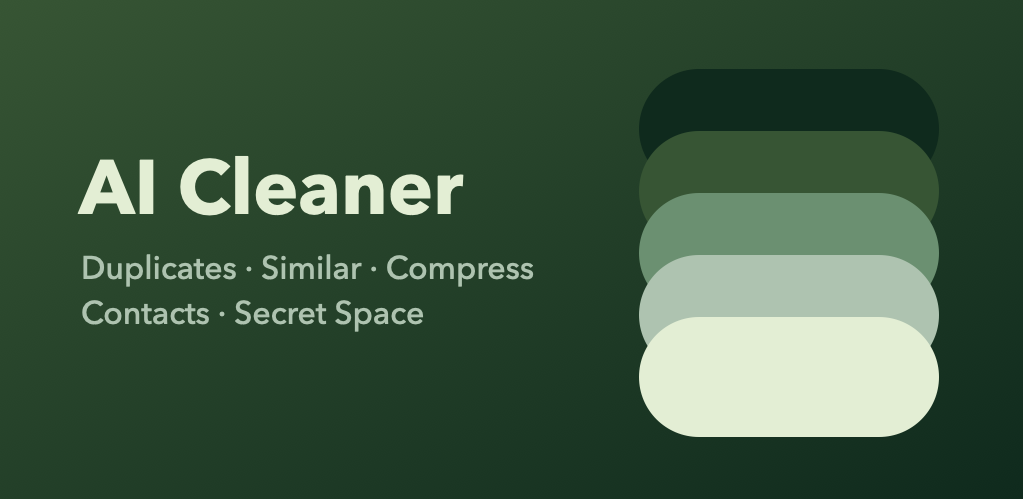
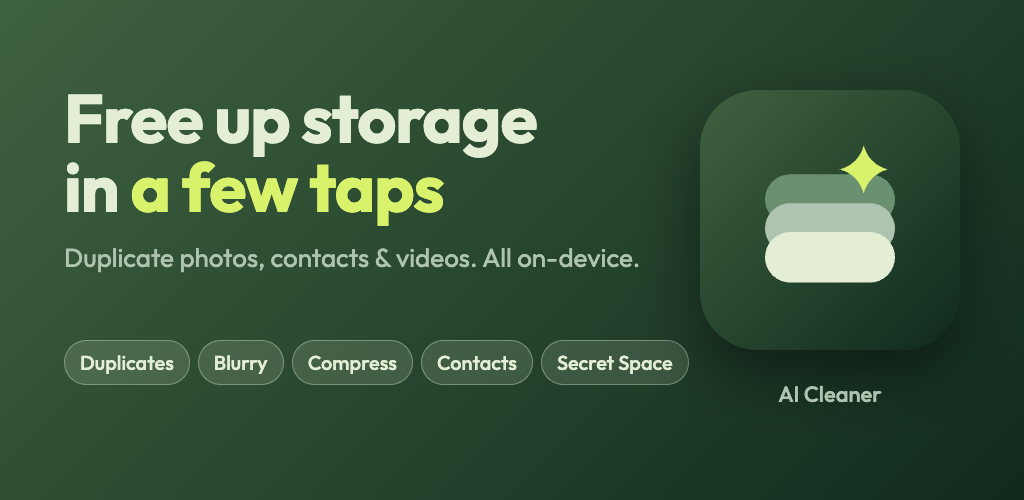
aso

Changed region(s): [[0.0625, 0.12, 0.9375, 0.9], [0.0625, 0.18, 0.5312, 0.45], [0.0, 0.99, 1.0, 1.0]]

diff --git a/store/sample-data/scene.html b/store/sample-data/scene.html
@@ -1,0 +1,56 @@
+<!doctype html><html><body style="margin:0;background:#000"><canvas id="c"></canvas><script>
+const q=new URLSearchParams(location.search);
+const seed=+q.get('seed')||1, W=+q.get('w')||1800, H=+q.get('h')||1350;
+const pan=+q.get('pan')||0, bright=+(q.get('bright')||1), blur=+q.get('blur')||0, noiseSeed=+q.get('ns')||seed;
+function rng(a){return function(){a|=0;a=a+0x6D2B79F5|0;let t=Math.imul(a^a>>>15,1|a);t=t+Math.imul(t^t>>>7,61|t)^t;return((t^t>>>14)>>>0)/4294967296}}
+const R=rng(seed*7919);
+const P=[
+ {t:['#1b2a5c','#f08a4b'],sun:'#ffd9a0',r:['#6b4a7a','#4a3566','#2e2250','#171236'],type:'mount'},
+ {t:['#7ec8f2','#e8f6ff'],sun:'#fff7d6',r:['#9bc4d9','#6aa3b8','#3f7f6b','#245c46'],type:'mount'},
+ {t:['#0b1026','#2b3a67'],sun:'#f4f1de',r:['#1c2540','#141b33','#0c1124','#070a17'],type:'night',stars:1},
+ {t:['#ffb36b','#ffe3b0'],sun:'#fff3c4',r:['#d98c5f','#b5654a','#8a4a3b','#5a2f2c'],type:'dunes'},
+ {t:['#4fb3d9','#bfe9f5'],sun:'#fffbe6',r:['#f3d9a4','#2d8fb5','#1f6f96','#165676'],type:'beach'},
+ {t:['#2c3e50','#8fa9b8'],sun:'#e6eef2',r:['#5d7482','#415664','#2b3b47','#1a252d'],type:'forest'},
+ {t:['#f6a6b8','#ffe2c4'],sun:'#fff0e0',r:['#c77f9a','#9c5a82','#6d3a69','#3f2250'],type:'mount'},
+ {t:['#0d1b2a','#1b4d5c'],sun:'#b8ffd9',r:['#14363f','#0e2830','#091c23','#05121a'],type:'aurora',stars:1},
+ {t:['#9ad0ec','#f2fbff'],sun:'#ffffff',r:['#ffffff','#dbeaf2','#b6cfdc','#7f9fb3'],type:'snow'},
+ {t:['#e8b04a','#f7e3a8'],sun:'#fffbe0',r:['#9a7b2f','#7a6a2c','#4f5d2b','#2f4023'],type:'field'},
+ {t:['#101820','#3a2a50'],sun:'#ff6fae',r:['#251a3a','#1a122d','#110b20','#0a0614'],type:'city',stars:1},
+ {t:['#bcd8c1','#eaf3dc'],sun:'#fffff0',r:['#8fb996','#5f9a76','#3f7a5c','#255a44'],type:'forest'},
+];
+const pal=P[seed%P.length];
+const c=document.getElementById('c');c.width=W;c.height=H;const g=c.getContext('2d');
+const ox=pan*W;
+function ridge(base,amp,col,freq,sh){
+ const ph=[R()*6,R()*6,R()*6,R()*6];
+ g.beginPath();g.moveTo(-50,H+10);
+ for(let x=-50;x<=W+50;x+=6){const u=(x+ox*sh)/W*freq;
+  const y=base+amp*(Math.sin(u*2+ph[0])*.5+Math.sin(u*5.3+ph[1])*.28+Math.sin(u*11.7+ph[2])*.14+Math.sin(u*27+ph[3])*.06);
+  g.lineTo(x,y);}
+ g.lineTo(W+50,H+10);g.closePath();
+ const gr=g.createLinearGradient(0,base-amp,0,H);gr.addColorStop(0,col);gr.addColorStop(1,shade(col,-.35));g.fillStyle=gr;g.fill();}
+function shade(h,f){let n=parseInt(h.slice(1),16),r=n>>16,gg=n>>8&255,b=n&255;const k=f<0?0:255,p=Math.abs(f);return'rgb('+Math.round((k-r)*p+r)+','+Math.round((k-gg)*p+gg)+','+Math.round((k-b)*p+b)+')'}
+// sky
+let gr=g.createLinearGradient(0,0,0,H*.7);gr.addColorStop(0,pal.t[0]);gr.addColorStop(1,pal.t[1]);g.fillStyle=gr;g.fillRect(0,0,W,H);
+if(pal.stars){g.fillStyle='#fff';const rs=rng(seed);for(let i=0;i<260;i++){g.globalAlpha=.3+rs()*.7;g.beginPath();g.arc(rs()*W-ox*.02,rs()*H*.55,rs()*2.2+.4,0,7);g.fill();}g.globalAlpha=1;}
+const sx=W*(.25+R()*.5)-ox*.1, sy=H*(.28+R()*.18), sr=H*(.05+R()*.04);
+let rg=g.createRadialGradient(sx,sy,0,sx,sy,sr*7);rg.addColorStop(0,pal.sun+'cc');rg.addColorStop(.25,pal.sun+'55');rg.addColorStop(1,pal.sun+'00');g.fillStyle=rg;g.fillRect(0,0,W,H);
+g.fillStyle=pal.sun;g.beginPath();g.arc(sx,sy,sr,0,7);g.fill();
+if(pal.type==='aurora'){g.filter='blur(30px)';for(let i=0;i<4;i++){const gg=g.createLinearGradient(0,H*.1,0,H*.5);gg.addColorStop(0,'rgba(120,255,200,0)');gg.addColorStop(.5,'rgba(120,255,200,.55)');gg.addColorStop(1,'rgba(90,120,255,0)');g.fillStyle=gg;g.beginPath();g.moveTo(0,H*.35);for(let x=0;x<=W;x+=20)g.lineTo(x,H*(.25+i*.04)+Math.sin(x/W*6+i*1.7-ox/W)*H*.07);g.lineTo(W,H*.55);g.lineTo(0,H*.55);g.fill();}g.filter='none';}
+// clouds
+g.filter='blur(26px)';g.fillStyle='rgba(255,255,255,.28)';for(let i=0;i<7;i++){g.beginPath();g.ellipse(R()*W-ox*.15,H*(.1+R()*.3),W*(.07+R()*.12),H*(.02+R()*.03),0,0,7);g.fill();}g.filter='none';
+const base=H*(.58+R()*.06);
+const layers=pal.r;
+layers.forEach((col,i)=>{const t=i/(layers.length-1);ridge(base+t*H*.17,H*(.14-t*.05),col,1.4+i*.5,.6+i*.5)});
+if(pal.type==='city'){let x=-ox*.3;const rs=rng(seed+5);while(x<W){const w=40+rs()*90,h=H*(.1+rs()*.28);g.fillStyle='#0a0612';g.fillRect(x,H*.8-h,w,h+H*.2);g.fillStyle='rgba(255,210,120,.85)';for(let yy=H*.8-h+14;yy<H*.8;yy+=26)for(let xx=x+8;xx<x+w-10;xx+=18)if(rs()>.55)g.fillRect(xx,yy,8,12);x+=w+rs()*10;}}
+if(pal.type==='forest'||pal.type==='mount'){const rs=rng(seed+9);for(let i=0;i<46;i++){const x=rs()*W*1.1-ox*.9,h=H*(.1+rs()*.2),y=H*(.82+rs()*.18);g.fillStyle=shade('#10241a',-rs()*.3);g.beginPath();g.moveTo(x,y-h);g.lineTo(x+h*.28,y);g.lineTo(x-h*.28,y);g.fill();}}
+if(pal.type==='field'){const rs=rng(seed+3);for(let i=0;i<700;i++){g.fillStyle=['#ffffff','#f4d03f','#e74c8c'][i%3];g.beginPath();g.arc(rs()*W,H*(.72+rs()*.28),2+rs()*5,0,7);g.fill();}}
+if(pal.type==='beach'){g.fillStyle='rgba(255,255,255,.55)';for(let i=0;i<14;i++){g.fillRect(R()*W-ox*.5,H*(.66+R()*.1),W*(.1+R()*.2),3);}}
+// vignette
+let vg=g.createRadialGradient(W/2,H/2,H*.4,W/2,H/2,H*.95);vg.addColorStop(0,'rgba(0,0,0,0)');vg.addColorStop(1,'rgba(0,0,0,.35)');g.fillStyle=vg;g.fillRect(0,0,W,H);
+// brightness + grain
+const im=g.getImageData(0,0,W,H),d=im.data,rn=rng(noiseSeed*131+7);
+for(let i=0;i<d.length;i+=4){const n=(rn()-.5)*16;d[i]=Math.max(0,Math.min(255,d[i]*bright+n));d[i+1]=Math.max(0,Math.min(255,d[i+1]*bright+n));d[i+2]=Math.max(0,Math.min(255,d[i+2]*bright+n));}
+g.putImageData(im,0,0);
+if(blur>0){const t=document.createElement('canvas');t.width=W;t.height=H;const tg=t.getContext('2d');tg.filter='blur('+blur+'px)';tg.drawImage(c,0,0);g.filter='none';g.drawImage(t,0,0);}
+</script></body></html>

diff --git a/store/sample-data/shot.html b/store/sample-data/shot.html
@@ -1,0 +1,23 @@
+<!doctype html><html><head><meta charset="utf-8"><style>
+*{box-sizing:border-box;margin:0;font-family:-apple-system,Helvetica,Arial,sans-serif}
+body{width:1080px;height:2400px;background:var(--bg);color:var(--fg);overflow:hidden}
+.sb{height:90px;display:flex;justify-content:space-between;padding:30px 48px;font-size:34px}
+.hd{padding:40px 48px;font-size:64px;font-weight:700;background:var(--ac);color:#fff}
+.row{display:flex;align-items:center;gap:36px;padding:34px 48px;border-bottom:2px solid rgba(128,128,128,.18)}
+.av{width:120px;height:120px;border-radius:60px;background:var(--ac);opacity:.85;flex:none}
+.t1{font-size:44px;font-weight:600}.t2{font-size:36px;opacity:.6;margin-top:8px}
+.card{margin:36px 48px;border-radius:36px;background:rgba(128,128,128,.14);padding:48px;height:420px;font-size:48px;font-weight:600}
+.bar{height:34px;border-radius:17px;background:var(--ac);opacity:.7;margin-top:26px}
+.nav{position:absolute;bottom:0;left:0;right:0;height:200px;background:rgba(128,128,128,.16);display:flex;justify-content:space-around;align-items:center}
+.nav i{width:90px;height:90px;border-radius:30px;background:var(--ac);opacity:.7}
+</style></head><body><div class="sb"><span>18:15</span><span>● ▲ ▮</span></div><div class="hd" id="h"></div><div id="b"></div><div class="nav"><i></i><i></i><i></i><i></i></div>
+<script>
+const q=new URLSearchParams(location.search),k=+q.get('k')||0;
+const T=[['Messages','#128c7e','#ffffff','#111'],['Settings','#3b6ef5','#f5f6fa','#111'],['Shop','#e8590c','#ffffff','#111'],['Maps','#2b8a3e','#e9ecef','#111'],['Notes','#f59f00','#1e1e1e','#eee'],['Weather','#1c7ed6','#0b2239','#eee'],['Music','#c2255c','#16111a','#eee'],['Wallet','#5f3dc4','#ffffff','#111']];
+const [n,ac,bg,fg]=T[k%8];const r=document.documentElement.style;r.setProperty('--ac',ac);r.setProperty('--bg',bg);r.setProperty('--fg',fg);
+document.getElementById('h').textContent=n;
+const names=['Anna Lee','Marco R.','Team Sync','Mom','Sam K.','Dev Group','Priya','Jordan','Luca','Sofia','Kenji','Olivia'];
+let h='';if(k%2==0){for(let i=0;i<9;i++)h+=`<div class="row"><div class="av" style="opacity:${.5+((i*k)%5)/10}"></div><div><div class="t1">${names[(i+k)%12]}</div><div class="t2">See you at ${3+i}:${i}0 · ${i+1}m ago</div></div></div>`}
+else{h+=`<div class="card">${n} overview<div class="bar" style="width:80%"></div><div class="bar" style="width:55%"></div><div class="bar" style="width:68%"></div></div>`;for(let i=0;i<6;i++)h+=`<div class="row"><div class="av" style="border-radius:24px"></div><div><div class="t1">${names[(i*2+k)%12]}</div><div class="t2">Item ${i+k} · $${(i+3)*k+9}.00</div></div></div>`}
+document.getElementById('b').innerHTML=h;
+</script></body></html>

diff --git a/store/screenshots/template.html b/store/screenshots/template.html
@@ -1,0 +1,25 @@
+<!doctype html><html><head><meta charset="utf-8"><style>
+@font-face{font-family:Outfit;src:url("../../assets/fonts/Outfit.ttf");font-weight:100 900}
+*{box-sizing:border-box;margin:0}
+body{width:1080px;height:2160px;overflow:hidden;font-family:Outfit,sans-serif;position:relative;background:linear-gradient(160deg,#3F6240 0%,#173424 55%,#0F2A1D 100%);color:#E3EED4}
+.glow{position:absolute;left:-200px;top:520px;width:800px;height:800px;border-radius:50%;background:radial-gradient(circle,rgba(217,242,107,.22),rgba(217,242,107,0) 65%)}
+h1{position:absolute;left:0;right:0;top:92px;text-align:center;font-size:96px;line-height:1.04;font-weight:700;letter-spacing:-2px}
+h1 em{font-style:normal;color:#D9F26B}
+.sub{position:absolute;left:0;right:0;top:332px;text-align:center;font-size:40px;font-weight:500;color:#AEC3B0}
+.phone{position:absolute;left:140px;top:420px;width:800px;height:1740px;border-radius:84px 84px 0 0;background:#08140d;padding:14px 14px 0;box-shadow:0 40px 120px rgba(0,0,0,.55),0 0 0 3px rgba(227,238,212,.12)}
+.phone img{display:block;width:772px;height:1726px;object-fit:cover;object-position:top;border-radius:72px 72px 0 0}
+</style></head><body><div class="glow"></div><h1 id="h"></h1><div class="sub" id="s"></div><div class="phone"><img id="i"></div>
+<script>
+const D=[
+ ["Reclaim space<br><em>in one tap</em>","","01_home"],
+ ["Delete <em>duplicate</em><br>photos","","02_dups"],
+ ["Keep the <em>best</em>,<br>clear the rest","","03_similar"],
+ ["Clear <em>blurry</em><br>photos","","04_blurry"],
+ ["<em>Compress</em> photos<br>&amp; videos","","05_compress"],
+ ["Merge <em>duplicate</em><br>contacts","","06_contacts"],
+ ["Clean old<br><em>calendar events</em>","","07_events"],
+ ["<em>Lock</em> private photos<br>&amp; contacts","100% on-device · No account","08_secret"]];
+const n=(+new URLSearchParams(location.search).get('n')||1)-1,d=D[n];
+document.getElementById('h').innerHTML=d[0];document.getElementById('s').textContent=d[1];
+document.getElementById('i').src="raw/"+d[2]+".png";
+</script></body></html>

diff --git a/store/feature.html b/store/feature.html
@@ -1,0 +1,17 @@
+<!doctype html><html><head><meta charset="utf-8"><style>
+@font-face{font-family:Outfit;src:url("../assets/fonts/Outfit.ttf");font-weight:100 900}
+*{box-sizing:border-box;margin:0}
+body{width:1024px;height:500px;overflow:hidden;font-family:Outfit,sans-serif;background:linear-gradient(135deg,#3F6240,#0F2A1D);position:relative;color:#E3EED4}
+.t{position:absolute;left:64px;top:84px;width:620px}
+h1{font-size:68px;line-height:1.02;font-weight:700;letter-spacing:-1px}
+h1 em{font-style:normal;color:#D9F26B}
+p{margin-top:18px;font-size:26px;white-space:nowrap;color:#AEC3B0;font-weight:400}
+.chips{position:absolute;left:64px;top:340px;display:flex;gap:8px;flex-wrap:wrap;width:640px}
+.c{padding:9px 15px;border-radius:99px;background:rgba(227,238,212,.14);border:1.5px solid rgba(227,238,212,.35);font-size:20px;font-weight:500}
+.ic{position:absolute;left:700px;top:90px;width:260px;height:260px;border-radius:58px;box-shadow:0 24px 60px rgba(0,0,0,.45)}
+.ic2{position:absolute;left:690px;top:380px;width:280px;text-align:center;font-size:22px;color:#AEC3B0;font-weight:500}
+</style></head><body>
+<div class="t"><h1>Free up storage<br>in <em>a few taps</em></h1><p>Duplicate photos, contacts &amp; videos. All on-device.</p></div>
+<div class="chips"><span class="c">Duplicates</span><span class="c">Blurry</span><span class="c">Compress</span><span class="c">Contacts</span><span class="c">Secret Space</span></div>
+<img class="ic" src="icon.svg"><div class="ic2">AI Cleaner</div>
+</body></html>

diff --git a/lib/core/config.dart b/lib/core/config.dart
@@ -4,11 +4,11 @@ abstract final class AppConfig {
   static const storeUrl =
       'https://play.google.com/store/apps/details?id=$packageName';
 
-  static const repoUrl = 'https://github.com/ldtrng/ai_cleaner_storage_cleaner';
+  static const repoUrl = 'https://ldtrng.github.io/ai_cleaner_storage_cleaner';
 
   // Rendered by GitHub from docs/ in this repo; also used as the Play Console privacy policy URL.
-  static const privacyPolicyUrl = '$repoUrl/blob/main/docs/privacy-policy.md';
-  static const termsUrl = '$repoUrl/blob/main/docs/terms.md';
+  static const privacyPolicyUrl = '$repoUrl/privacy-policy.html';
+  static const termsUrl = '$repoUrl/terms.html';
 
   static const supportEmail = 'ldtrong258@gmail.com';
 }

diff --git a/store/ASO.md b/store/ASO.md
@@ -1,0 +1,169 @@
+# ASO — AI Cleaner (Google Play)
+
+Ngày: 2026-10-10 · App chưa lên store (pre-launch) · Tier: **Challenger** · Store: Google Play (chỉ Android)
+
+> Giới hạn: không có dữ liệu search volume / thứ hạng thật (cần AppTweak, Sensor Tower, Play Console). Keyword bên dưới suy ra từ listing đối thủ đang xếp hạng cao, không phải từ volume đo được. Sau khi lên store, kiểm lại bằng Play Console → Store performance → Search terms.
+
+## 1. Đánh giá bản nháp hiện tại (PLAY_STORE.md §4 + assets cũ)
+
+| Hạng mục | Điểm | Vấn đề chính |
+|---|---|---|
+| Title & short desc | 6/10 | Title ổn (28 ký tự) nhưng short desc lặp "free up space", thiếu "storage cleaner" / "phone cleaner" |
+| Description | 6/10 | Chỉ ~1.300 ký tự; mở đầu chưa nêu khác biệt (không account / không subscription); thiếu keyword dài (similar photos, blurry photos, screenshot cleaner) |
+| Visual assets | 3/10 | **Chưa có screenshot** (Play bắt buộc ≥2); feature graphic cũ không có lợi ích, chữ nhỏ; **icon cũ bị cắt sparkle** ở mask tròn |
+| Ratings / Conversion | n/a | Chưa có dữ liệu |
+| Metadata & localization | 4/10 | Chỉ 1 ngôn ngữ (en-US) |
+
+## 2. Nghiên cứu đối thủ (đọc trực tiếp Play, 2026-10-10)
+
+| App | Installs | Rating | Title | Short desc (rút gọn) |
+|---|---|---|---|---|
+| Phone Cleaner – AI Cleaner (Brain Trust) | 50M+ | 4.8 | Phone Cleaner - AI Cleaner | Clean up your phone space with AI powered phone cleaner |
+| Cleanup: Phone Storage Cleaner (Deep Flow) | 10M+ | 4.4 | Cleanup: Phone Storage Cleaner | Remove junk safely, clean up duplicate photos, optimize memory & storage space |
+| Storage Cleaner: Cleanup Phone (Quiet Games) | 500K+ | 4.8 | Storage Cleaner: Cleanup Phone | Free up space in seconds—clean junk & duplicates with safe one-tap scans |
+| Clean Now: Storage Cleaner (iKame) | 1M+ | 4.0 | Clean Now: Storage Cleaner | AI phone cleaner for deleting duplicated photos, videos, files, apps & contacts |
+| SpaceUp — AI Storage Cleaner (Tap Scan) | 10K+ | 4.3 | SpaceUp — AI Storage Cleaner | Duplicate photo remover: clean similar photos & screenshots. Reclaim storage |
+
+Ngoài ra có app tên gần trùng: **"AI Cleaner – Phone Cleaner" (GRIMLAX TRADE, package `ai.storage.cleaner.app`, ~3,3M installs, theo trang tổng hợp bên thứ ba — chưa xác minh trực tiếp trên Play)**. Xem rủi ro tên ở §8.
+
+**Nhận định:**
+1. Từ khóa cốt lõi mọi đối thủ đều dùng: *storage cleaner, phone cleaner, duplicate photos, similar photos, junk, compress, AI*. Cạnh tranh đầu từ rất cao (Brain Trust 50M+), nên phải thắng bằng đuôi dài + chuyển đổi, không phải bằng đầu từ.
+2. **Khoảng trống:** chỉ Clean Now và SpaceUp có contacts; trong 5 app đã đọc, không app nào có calendar cleaner + Secret Space + app manager trong cùng một app kèm "on-device, no account".
+3. **Nỗi đau của người dùng (review 1★ đối thủ):** (a) bẫy free trial / bị trừ tiền không huỷ được — Cleanup; (b) quảng cáo toàn màn hình không thoát được, cảnh báo virus giả — Storage Cleaner (Quiet Games). → Nhấn **"no subscription, no free trial"** và **"light ads, never mid-scan"** (đúng với chính sách ad trong PLAY_STORE.md §6b; app không có IAP).
+4. Visual đối thủ chủ yếu nền xanh dương, headline lớn + khung điện thoại. Màu **xanh rừng + accent chanh** của bạn khác biệt rõ trong lưới kết quả.
+
+## 3. Listing đề xuất (đã đếm ký tự)
+
+**Title (27/30):** `AI Cleaner: Storage Cleaner`
+- Giữ thương hiệu + đầu từ "storage cleaner" (Play index title mạnh nhất). Không emoji / CAPS / "best" / "free".
+
+**Short description (75/80):** `Delete duplicate photos, merge contacts, compress videos & free up storage.`
+
+**Full description (1.934/4.000):**
+
+```
+Free up phone storage in a few taps. AI Cleaner is a storage cleaner that finds duplicate photos, similar photos, blurry shots, screenshots and screen recordings on your device, then helps you keep the best one and clear the rest.
+
+Everything runs on your phone. No account, no subscription, no free trial. Your photos, contacts and calendar never leave your device.
+
+PHONE STORAGE CLEANER FEATURES
+
+📸 Photo cleaner
+• Duplicate photos and similar photos grouped together, with the best shot suggested
+• Blurry photos and old screenshots in one list
+• Preview everything before you delete
+
+🎬 Video cleaner & compressor
+• Find duplicate videos, screen recordings and short clips
+• Compress large photos and videos with High, Medium or Low quality to save gigabytes
+
+👥 Contacts cleaner
+• Merge duplicate contacts and remove incomplete entries
+• Back up your contacts locally and restore them any time
+
+📅 Calendar cleaner
+• Delete old and past calendar events in one go
+
+📱 App manager
+• See which apps take the most storage and which ones you haven't used for a while
+
+🔒 Secret Space
+• Hide private photos, videos and contacts behind a PIN or fingerprint
+
+⚡ Smart Clean
+• One scan shows everything you can clean, and how much space you will get back
+
+SAFE BY DESIGN
+• You review every item before anything is removed
+• Deleted photos and videos go to your phone's Trash, so you can restore them (30 days by default, configurable)
+• Light ads that never appear in the middle of a scan, delete or compression
+• Light and dark themes
+
+PERMISSIONS, EXPLAINED
+• Photos and videos: to scan your whole gallery for duplicates, blurry shots and large files. The Android photo picker can't do this, because the scan must cover the whole library.
+• Contacts and Calendar: only if you open those cleaners.
+• Usage access: only for App Manager, to show app size and last-used time.
+
+Running out of space? Download AI Cleaner and get your storage back.
+```
+
+Ghi chú: mật độ keyword tự nhiên (photos ~3%, cleaner ~2%, storage ~1,5%), không nhồi từ. Mọi tính năng trong mô tả lấy từ PLAY_STORE.md / README; nếu thêm tính năng mới thì bổ sung, **đừng ghi tính năng chưa có**. Đã đối chiếu code: quyền Calendar xin theo yêu cầu trong `events_repository.dart`, Home hiển thị "Allow access" cho Contacts/Events nên câu "only if you open those cleaners" khớp thực tế.
+
+**What's new (v1.0.0):** `First release: find duplicate & similar photos, clear blurry shots and screenshots, compress media, merge contacts, clean old calendar events, manage apps and hide private files in Secret Space.`
+
+**Category:** Tools (đối thủ top đều ở Tools).
+
+## 4. Keyword plan
+
+| Nhóm | Keyword | Đặt ở đâu | Lý do |
+|---|---|---|---|
+| Đầu từ (khó) | storage cleaner, phone cleaner | Title, mô tả (1–2 lần mỗi từ) | Cụm đối thủ top đều dùng; cần để vào tập kết quả |
+| Ý định cao | duplicate photos, similar photos, delete duplicate photos | Short desc + mô tả | Tính năng chính, cạnh tranh vừa |
+| Đuôi dài | blurry photos, screenshot cleaner, screen recordings, compress videos / photos | Mô tả | Ít app nhắm; dễ lên top |
+| Khác biệt | duplicate contacts, merge contacts, calendar cleaner, app manager, secret space / private vault | Mô tả | Khoảng trống so với đối thủ |
+| Niềm tin | no account, on-device, no subscription | Mở đầu mô tả + screenshot cuối | Đánh vào review 1★ của đối thủ |
+| Tránh | "best", "#1", "boost", "speed up 50%", "antivirus", "virus", "RAM cleaner" | — | Vi phạm chính sách Play / hứa hẹn sai (PLAY_STORE.md §7) |
+
+## 5. App icon
+
+Đã cập nhật: `store/icon.svg`, `store/icon-512.png`, và vector Android `drawable/ic_launcher_foreground.xml`, `ic_launcher_monochrome.xml`, `ic_launcher_background.xml`. **Cần rebuild AAB** để icon trong app đổi theo.
+
+- **Sửa lỗi cắt:** sparkle cũ có đầu mút cách tâm ~41/108dp, ngoài vùng hiển thị ~36dp của mask tròn nên bị cắt ở launcher dùng icon tròn. Bản mới đưa toàn bộ mark vào trong bán kính 36dp (đã kiểm tra bằng overlay mask).
+- **Sparkle lớn hơn, màu chanh `#D9F26B`:** là điểm nhấn duy nhất; vẫn đọc được ở 32–48px (cỡ trong kết quả tìm kiếm). Bản cũ gần như biến mất ở cỡ nhỏ.
+- Giữ ngôn ngữ hình (3 viên thuốc xếp chồng) và nền xanh rừng → khác biệt với đối thủ xanh dương, không phải xây lại nhận diện.
+- Nền gradient sáng hơn chút (`#3F6240` → `#0F2A1D`) để không chìm trên giao diện dark của Play.
+- Themed icon (Android 13+) dùng cùng hình.
+
+**Test sau khi lên store:** Store listing experiment (Play Console), ≥7 ngày, mỗi lần một yếu tố.
+
+## 6. Screenshots (đã làm: `store/screenshots/01.png … 08.png`, 1080×2160)
+
+Play: tối thiểu 2, tối đa 8 ảnh điện thoại; cạnh dài không quá 2× cạnh ngắn (1080×2160 đúng giới hạn). Quy tắc áp dụng: mỗi ảnh một lợi ích, caption ≤ 6 từ, không dùng "#1"/"Best"/giá.
+
+| # | Caption | Màn hình thật (emulator) |
+|---|---|---|
+| 1 | Reclaim space in one tap | Home: vòng dung lượng + *Smart Clean Now* |
+| 2 | Delete duplicate photos | Photos → Duplicate (nhãn "Best") |
+| 3 | Keep the best, clear the rest | Photos → Similar |
+| 4 | Clear blurry photos | Photos → Blurry |
+| 5 | Compress photos & videos | Compress → chọn High / Medium / Low |
+| 6 | Merge duplicate contacts | Contacts → Duplicate (gộp 4 nhóm) |
+| 7 | Clean old calendar events | Events (14 sự kiện cũ) |
+| 8 | Lock private photos & contacts · "100% on-device · No account" | Secret Space (PIN) |
+
+Cách tạo (lặp lại được):
+- Ảnh thô trong `store/screenshots/raw/` (chụp từ emulator Android 16, demo mode: 10:00, pin đầy, ẩn thông báo). Khung + caption render từ `store/screenshots/template.html?n=1..8` bằng Chrome headless (font Outfit, palette app).
+- Dữ liệu mẫu hoàn toàn tự sinh, không dùng ảnh/logo bên thứ ba: ảnh phong cảnh sinh bằng canvas (`store/sample-data/scene.html`), screenshot giả (`shot.html`), danh bạ và sự kiện lịch số điện thoại giả (555). Không ảnh cá nhân nào xuất hiện.
+- Số liệu trong ảnh ở mức MB (emulator chỉ trống ~500 MB) nên caption 1 dùng "Reclaim space" thay vì "GBs" để khớp hình. Muốn ảnh đẹp hơn có thể chụp lại trên máy có nhiều dữ liệu hơn.
+
+**Cố ý không dùng:**
+- *App Manager*: hiển thị logo Google / Chrome / YouTube / Gmail và app cá nhân; ảnh store có logo thương hiệu bên thứ ba dễ vướng chính sách.
+- *Smart Cleaning*: banner trong app ghi "Give your phone a boost… for a lag-free phone!" là khẳng định hiệu năng mà PLAY_STORE.md §7 cảnh báo dễ bị từ chối. Nên đổi copy trong app (vd. "Free up to 11.3 MB"), sau đó mới đưa màn này vào ảnh.
+- *Videos*: thumbnail video trống / "0:00" trên dữ liệu mẫu.
+
+## 7. Feature graphic (1024×500)
+
+`store/feature-graphic.png` (nguồn: `store/feature.html`) đã làm lại: headline lợi ích "Free up storage in a few taps", tagline, 5 chip tính năng, icon mới. Chữ nằm trong vùng giữa vì Play có thể cắt mép.
+
+## 8. Rủi ro & việc nên làm trước khi submit
+
+1. **Trùng tên "AI Cleaner":** đã có app cùng/ gần tên (Brain Trust "Phone Cleaner - AI Cleaner" 50M+; GRIMLAX ~3,3M theo trang tổng hợp). Tìm theo tên thương hiệu sẽ bị chìm, và Google có thể gỡ vì impersonation nếu bị khiếu nại. Cân nhắc brand riêng + giữ "Storage Cleaner" làm keyword (đổi `appName` trong `lib/main.dart` và `android:label` trong `AndroidManifest.xml`). Quyết định của bạn.
+2. **Claim "AI":** app phân tích on-device (hash / độ mờ). Dùng "AI" ở mức mô tả mềm, không hứa kiểu "AI tăng tốc máy".
+3. **Localization:** thêm `vi-VN`, và theo kinh nghiệm thị trường cleaner: `pt-BR`, `es-419`, `id`, `hi`, `ru`, `tr`. Dịch title + short desc + caption screenshot trước.
+4. **In-app review:** gọi `in_app_review` sau màn "Congratulations", để đạt ≥4.4★ sớm (đối thủ top 4.4–4.8).
+5. **Data safety** phải khớp SDK thực tế (AdMob + Firebase) — PLAY_STORE.md §5.
+6. **Sau launch:** theo dõi Android Vitals (crash <1,09%, ANR <0,47%); chạy experiment icon → screenshot đầu → short description.
+
+5. **Logo trong app khác icon:** splash dùng 4 viên thuốc + sparkle nhỏ trong viên cuối, trong khi icon launcher là 3 viên + sparkle chanh. Nên đồng bộ để nhận diện thương hiệu nhất quán từ store vào app.
+6. **Cảnh báo build "Kotlin Gradle Plugin":** do 6 plugin (firebase_core / analytics / remote_config, flutter_image_compress_common, in_app_review, photo_manager) vẫn dùng KGP. Cả 6 đã ở phiên bản mới nhất trên pub.dev (kiểm tra 2026-10-10) nên chưa thể sửa bằng cách nâng cấp; hiện chỉ là cảnh báo, build vẫn chạy. Theo dõi changelog các plugin này và nâng cấp khi có bản hỗ trợ Built-in Kotlin.
+
+## 9. Thứ tự ưu tiên
+
+| Ưu tiên | Việc | Công sức |
+|---|---|---|
+| 1 | Dán title / short desc / full desc ở §3 | 15 phút |
+| 2 | Upload 8 screenshot trong `store/screenshots/` (caption EN; dịch caption khi localize) | 15 phút |
+| 3 | Rebuild AAB (icon đổi) + upload icon / feature graphic mới | 30 phút |
+| 4 | Quyết định tên thương hiệu | — |
+| 5 | Localization (vi, pt-BR, es, id) | nửa ngày |
+| 6 | Store listing experiment sau khi có traffic | sau launch |

diff --git a/PLAY_STORE.md b/PLAY_STORE.md
@@ -9,7 +9,7 @@ Package: `io.ld2t.ai_cleaner` · minSdk 29 (Android 10) · targetSdk 36 · versi
 | `build/app/outputs/bundle/release/app-release.aab` | Bản phát hành (Production / Internal testing) |
 | `store/icon-512.png` | App icon 512×512 |
 | `store/feature-graphic.png` | Feature graphic 1024×500 |
-| Ảnh chụp màn hình | Tối thiểu 2 ảnh điện thoại — chụp từ emulator/thiết bị thật |
+| `store/screenshots/01.png … 08.png` | 8 ảnh chụp màn hình điện thoại (1080×2160) — xem `store/ASO.md` §6 |
 
 Build lại khi đổi code:
 
@@ -28,8 +28,8 @@ Mỗi lần upload bản mới phải tăng số sau dấu `+` trong `pubspec.ya
 ## 3. Trước khi gửi duyệt — cần thay
 
 Privacy policy & terms nằm trong repo, GitHub hiển thị trực tiếp (app mở các link này từ Settings):
-- Privacy policy: https://github.com/ldtrng/ai_cleaner_storage_cleaner/blob/main/docs/privacy-policy.md ← dán link này vào Play Console
-- Terms of use: https://github.com/ldtrng/ai_cleaner_storage_cleaner/blob/main/docs/terms.md
+- Privacy policy: https://ldtrng.github.io/ai_cleaner_storage_cleaner/privacy-policy.html ← dán link này vào Play Console
+- Terms of use: https://ldtrng.github.io/ai_cleaner_storage_cleaner/terms.html
 - Repo phải để **public** thì link mới mở được. Sửa nội dung → commit & push là link tự cập nhật.
 - Email hỗ trợ: `ldtrong258@gmail.com` (`lib/core/config.dart`).
 
